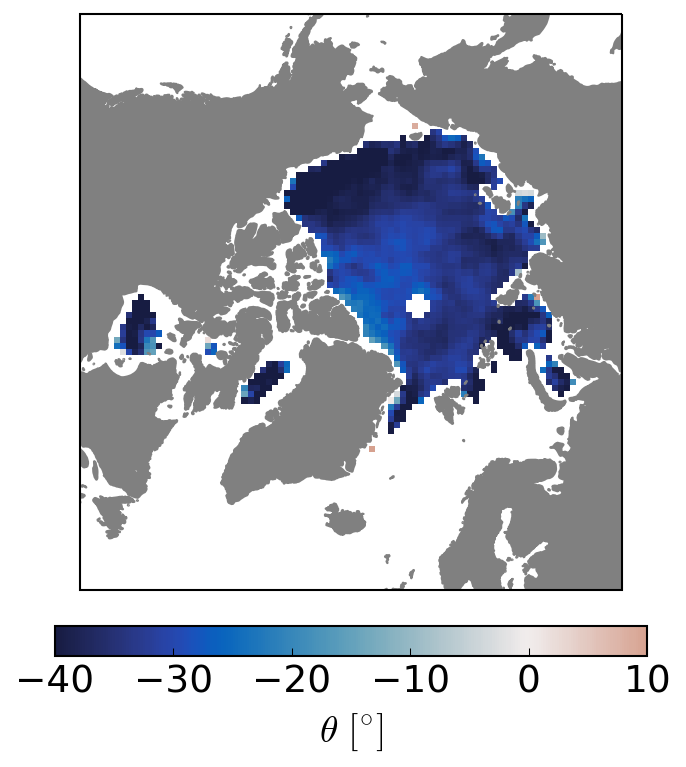
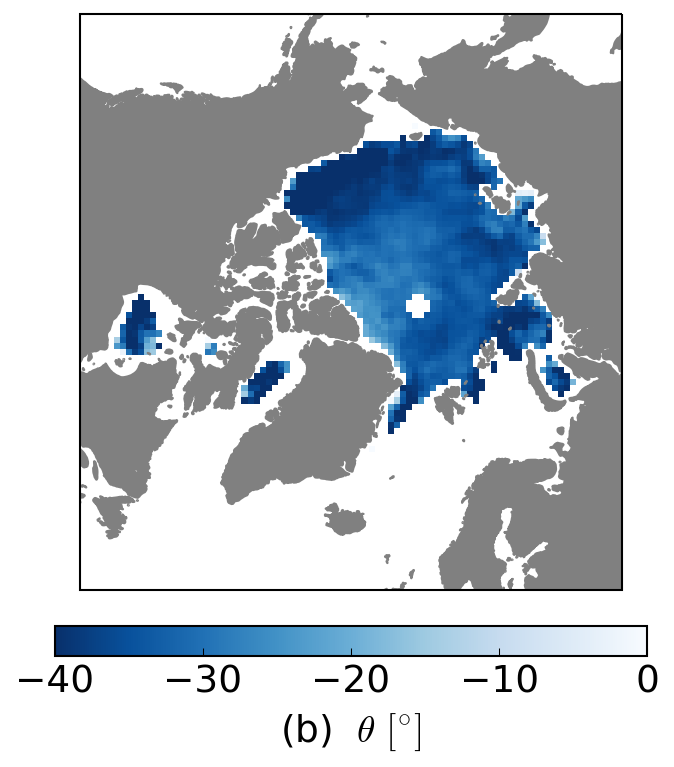
Improve the maps of free-drift parameters.

diff --git a/software/plot_ncparam.py b/software/plot_ncparam.py
@@ -15,6 +15,7 @@ matplotlib.use('Agg')
 matplotlib.style.use('classic')
 import matplotlib.pyplot as plt
 import matplotlib.colors as colors
+from matplotlib import cm
 import cartopy
 import cartopy.crs as ccrs
 import cartopy.feature as cfeature
@@ -292,6 +293,7 @@ def plot_ncparam(infile, month, param, param2=None, meansq=False,
             print("-- max(data) = ", np.nanmax(data))
             print("-- lower threshold data (99%) = ", datasort[thresh - 1])
             print("-- upper threshold data (99%) = ", datasort[-thresh])
+            print("-- mean(data) = ", np.nanmean(data))
 
         if param == 'flags':
             # Make a plotting array with
@@ -347,7 +349,7 @@ def plot_ncparam(infile, month, param, param2=None, meansq=False,
             data_cmap_lvl  = [-0.06, -0.03, 0.0, 0.03, 0.06]
             norm = colors.TwoSlopeNorm(vmin=vmin, vcenter=0, vmax=vmax)
         if label is None:
-            colbar_label = r'$U_{wg}\ [m.s^{-1}]$'
+            colbar_label = r'(c)  $U_{wg}\ [m.s^{-1}]$'
     if param in  ['RMS_Res_real', 'RMS_Res_imag']:
         datacmap = cmocean.cm.haline
         vmin = 0.0
@@ -355,31 +357,31 @@ def plot_ncparam(infile, month, param, param2=None, meansq=False,
         data_cmap_lvl  = [0, 0.02, 0.04, 0.06, 0.08, 0.1]
         norm = None
     if param in  ['absA', 'absA_gapfill']:
+        # express the tranfer coefficient as %
+        data *= 100
         datacmap = cmocean.cm.haline
-        vmin = 0.00
-        vmax = 0.03
-        data_cmap_lvl  = [0.0, 0.01, 0.02, 0.03]
+        vmin = 0
+        vmax = 3.
+        data_cmap_lvl  = [0.0, 1, 2, 3]
         norm = None
         if label is None:
-            colbar_label = r"$|A|$"
+            colbar_label = r"(a)  $|A|\ [\%]$"
     if param in  ['ThetaA', 'ThetaA_gapfill']:
         if hemi == 'nh':
             vmin = -40.
-            vmax = 10
-            data_cmap_lvl  = np.arange(vmax, vmin-0.01,-10)
+            vmax = 0.
+            data_cmap_lvl  = np.arange(vmin, vmax+0.01,10)
             norm = None
-            datacmap = cmap_norm_to_lims(cmocean.cm.balance, -40, 40,
-                                         vmin, vmax)
+            datacmap = cm.Blues_r
         else:
-            vmin = -10
-            vmax = 40.
+            vmin = 0.
+            vmax = +40.
             data_cmap_lvl  = np.arange(vmin, vmax+0.01,10)
             norm = None
             inv_yax = True
-            datacmap = cmap_norm_to_lims(cmocean.cm.balance, -40, 40,
-                                         vmin, vmax)
+            datacmap = cm.Reds
         if label is None:
-            colbar_label = r"$\theta\ [ ^{\circ}]$"
+            colbar_label = r"(b)  $\theta\ [ ^{\circ}]$"
     if param in  ['lon']:
         datacmap = cmocean.cm.balance
         vmin = -180
@@ -422,6 +424,9 @@ def plot_ncparam(infile, month, param, param2=None, meansq=False,
         datacbar = ax.imshow(data, cmap=datacmap, extent=mpl_data_extent,
                              transform=data_ccrs, vmin=vmin, vmax=vmax,
                              norm=norm, interpolation='none')
+        #cl = ax.contour(data, colors='k', levels=data_cmap_lvl, extent=mpl_data_extent,
+        #        transform=data_ccrs, origin='image')
+        #ax.clabel(cl, inline=True, fontsize=10)
 
     # Plotting the geostrophic currents
     if geocurr:
@@ -430,6 +435,7 @@ def plot_ncparam(infile, month, param, param2=None, meansq=False,
         scale = exscale * gscale
         for i in range(geocx.size):
             try:
+                if i % 2: continue
                 # This was plot_crs
                 x0, y0 = data_ccrs.transform_point(lons[~geocxmask][i],
                                                    lats[~geocxmask][i],
@@ -438,6 +444,8 @@ def plot_ncparam(infile, month, param, param2=None, meansq=False,
                 adx = geocx[~geocxmask][i]
                 ady = geocy[~geocymask][i]
                 len_arrow = math.sqrt(adx**2 + ady**2)
+                if len_arrow >= 0.05:
+                    continue
 
                 # Calculate the endpoints and therefore dx, dy components of
                 # the geostrophic current arrows in the plot coordinate system
